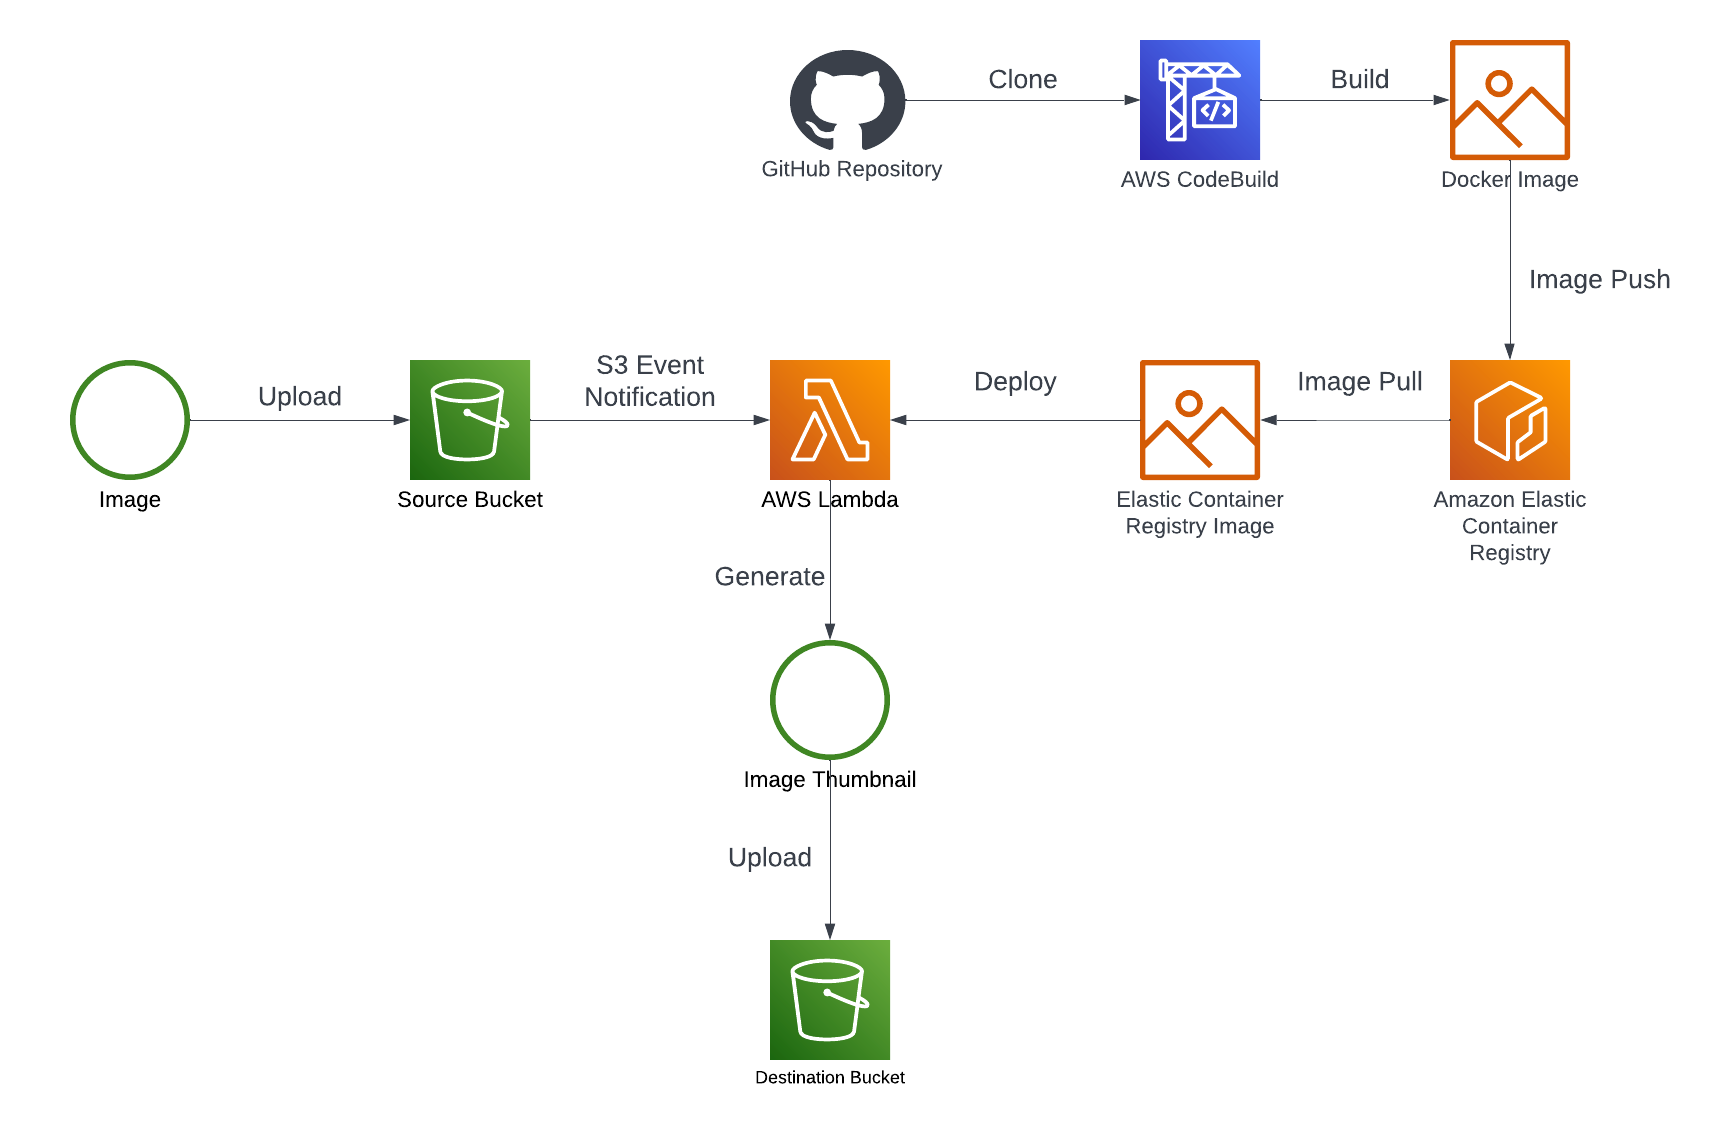
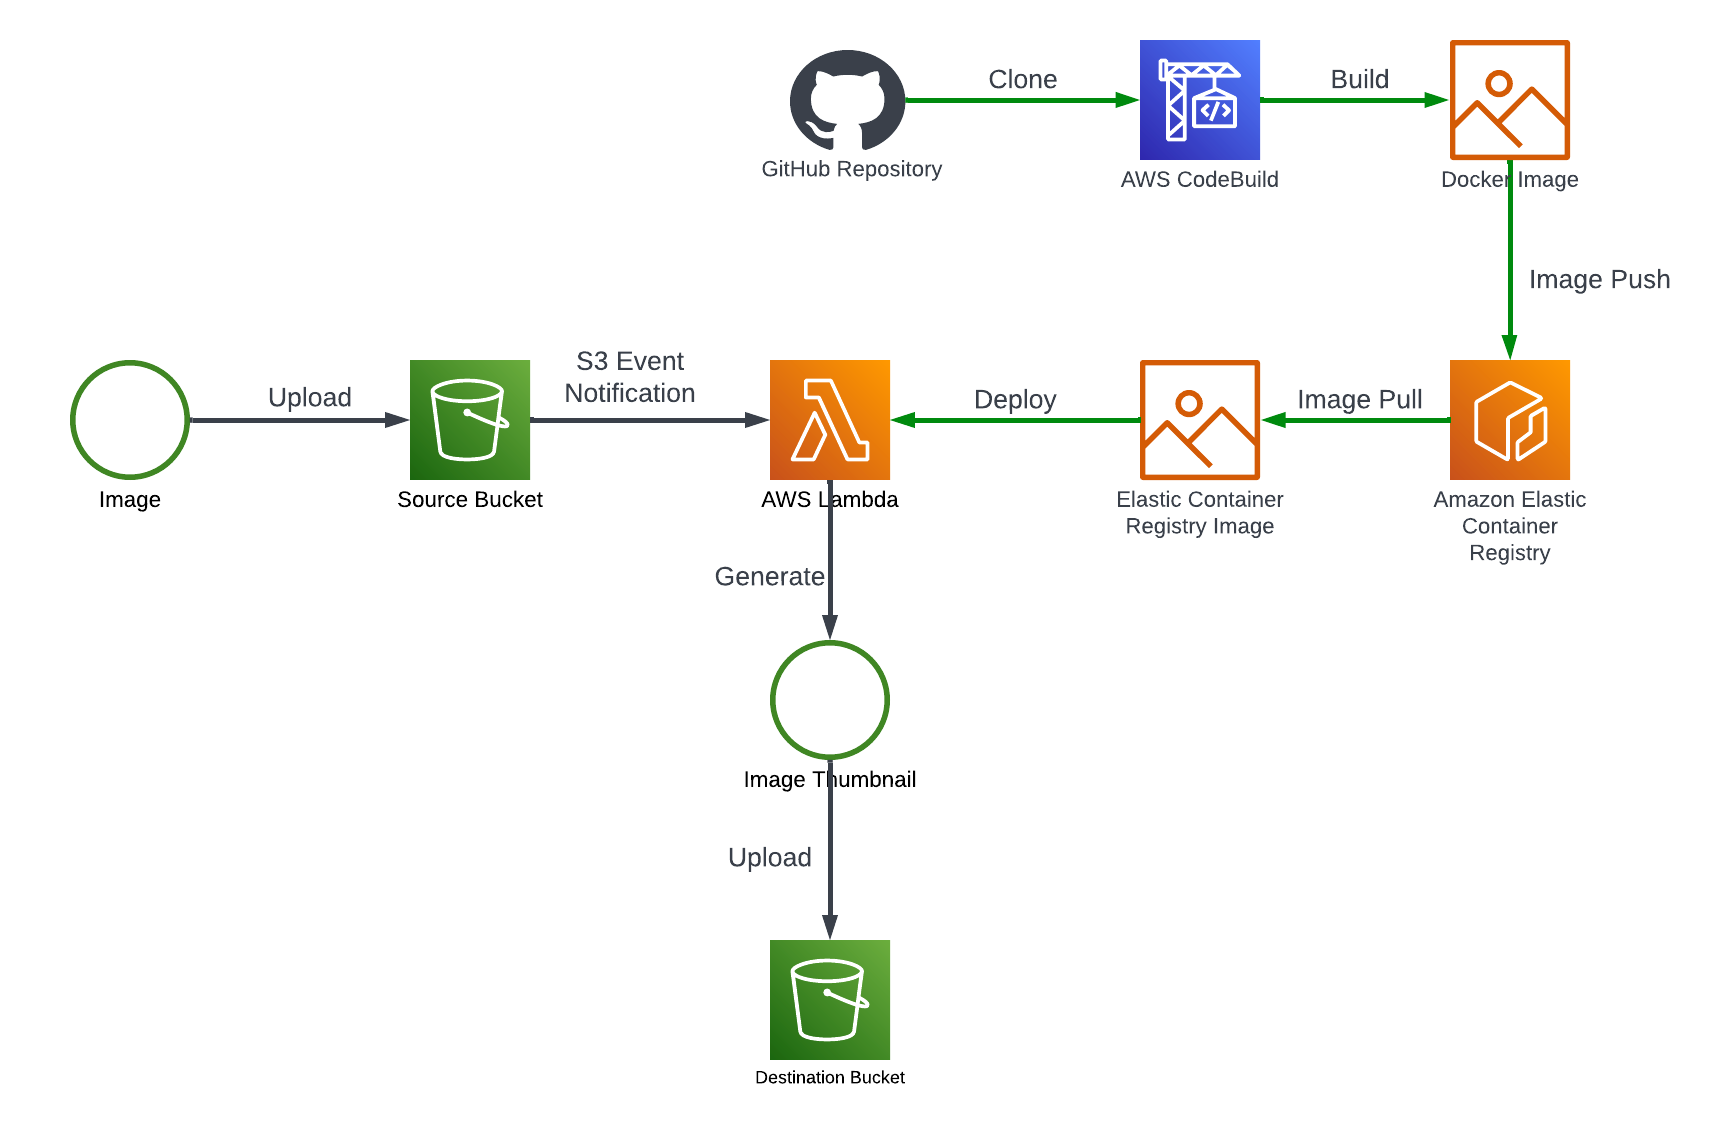
update README.md

diff --git a/s3_thumbnail_creator/README.md b/s3_thumbnail_creator/README.md
@@ -1,34 +1,39 @@
 # 3xImplementation: S3 Thumbnail Creator
 
-This is the first in a series of articles that compares the implementation of multiple basic architectures in 3 different ways: Terraform, AWS CloudFormation, and AWS Python SDK (boto3).
-The source code for this article can be found on GitHub: [https://github.com/Faaizz/cloud_learnings/tree/main/s3_thumbnail_creator](https://github.com/Faaizz/cloud_learnings/tree/main/s3_thumbnail_creator).
+This is the first in a series of episodes that compares three different implementations of basic architectures in AWS. In this episode, implementations of an "S3 Thumbnail Creator" in Terraform, AWS CloudFormation, and AWS Python SDK (boto3) are weighed up.
+
+The source code for this episode can be found on GitHub: [https://github.com/Faaizz/cloud_learnings/tree/main/s3_thumbnail_creator](https://github.com/Faaizz/cloud_learnings/tree/main/s3_thumbnail_creator).
 
 ## Architecture
-The architecture in this episode is a serverless application that automatically generates thumbnails of images uploaded in one S3 bucket (Source bucket) and saves them in another S3 bucket (Destination bucket).
-A basic layout is shown in the image below:
+The S3 Thumbnail Creator is a serverless application that automatically generates thumbnails of images uploaded in one S3 bucket (Source bucket) and saves them in another S3 bucket (Destination bucket).
+A basic layout is shown below. The green arrows show the deployment flow, while the black arrows show the operation flow.
 ![architecture](./docs/architecture.png)
 
 ## Resources
 A few AWS resources are required for this application and its deployment.
+
 First, we have two S3 buckets, the Source bucket and the Destination bucket.
+
 Then, there's the Lambda function that holds the thumbnail generation logic, whose source code lives in a [GitHub repository](https://github.com/Faaizz/s3_thumbnail_creator.git).
+
 An ECR repository is created to hold the container image, and a CodeBuild project is used to build the image and push it to ECR.
+
 For the CloudFormation implementation, an extra Lambda function is needed for the Macro that generates S3 bucket names.
 
 ![resources](./docs/resources.png)
 
 
 ## Some Notes
-For the CloudFormation implementation, the stacks must be provisioned in some way, this is achieved with minimal `go` scripts utilizing the AWS Go SDK.
-
-Also, as the application is not embedded within a CI/CD system, the "build" step needs to be triggered in some way.
-For the Terraform implementation, a `provider` block is used (I know, using providers is bad practice :-X).
-The Python SDK implementation includes this in the `python` scripts that make the API calls, and the CloudFormation implementation incorporates this in its `go` scripts.
+* For the CloudFormation implementation, the stacks must be provisioned in some way, this is achieved with minimal [`go` scripts](./cloudformation/) utilizing the AWS Go SDK.
+* As the application is not embedded within a CI/CD system, the "build" step requires an external trigger.
+For the Terraform implementation, a `provisioner` block is used (I know, using provisioners is (usually) bad practice :-X);
+the Python SDK implementation does this from the `python` scripts that make the API calls; 
+and the CloudFormation implementation incorporates this in its `go` scripts.
 
 ## Implementation
 ### ECR Repository
-The most independent resource of this application's entire stack is the ECR repository.
-It does not require information from any other resource.
+The most independent resource of the entire stack is the ECR repository.
+It does not require information from any other resource for its creation.
 Below is the creation of the ECR repository in all 3 implementations:
 ```h
 # Terraform
@@ -57,9 +62,123 @@ ecr_client.create_repository(
 )
 ```
 
-### CodeBuild
-A CodeBuild project is used to package the Thumbnail Generation lambda function as a container image.
-An IAM service role is set up for CodeBuild with permissions to write to CloudWatch logs and push to ECR.
+### CodeBuild Project and Build
+A CodeBuild project is used to package the thumbnail generation lambda function source code as a container image.To do this, the CodeBuild project requires a service role with permissions to write to CloudWatch logs and push images to ECR. 
+
+**Permissions**
+
+Specifying IAM permissions is basic JSON (or YAML), so realization across all 3 implementation is quite trivial. For the sake of completion, excerpts of the CodeBuild project's service role (and its attached policy) are provided in the following.
+
+For the terraform implementation, the built-in `jsonencode()` function came in handy. The policy and role are created separately, and associated together using the `aws_iam_role_policy_attachment` resource.
+```h
+# Terraform
+resource "aws_iam_policy" "codebuild_service_policy" {
+  name = local.codebuild_policy_name
+  description = "Allow access to CloudWatch Logs and ECR"
+
+  policy = jsonencode({
+    Version = "2012-10-17"
+    Statement = [
+      {
+        Effect = "Allow"
+        Action = [
+          "logs:CreateLogGroup",
+          "logs:CreateLogStream",
+          "logs:PutLogEvents",
+        ]
+        Resource = "arn:aws:logs:*:*:*"
+      },
+      {
+        Effect = "Allow"
+        Action = [
+          "ecr:BatchCheckLayerAvailability",
+          "ecr:CompleteLayerUpload",
+          "ecr:GetAuthorizationToken",
+          "ecr:InitiateLayerUpload",
+          "ecr:PutImage",
+          "ecr:UploadLayerPart",
+        ]
+        Resource = "*"
+      },
+    ]
+  })
+
+  tags = local.uniform_tags
+}
+
+# CodeBuild service role
+resource "aws_iam_role" "codebuild_service_role" {
+  name = local.codebuild_role_name
+  assume_role_policy = jsonencode({
+    Version = "2012-10-17"
+    Statement = [
+      {
+        Effect = "Allow"
+        Action = ["sts:AssumeRole"]
+        Principal = {
+          Service = "codebuild.amazonaws.com"
+        }
+      }
+    ]
+  })
+
+  tags = local.uniform_tags
+}
+
+# CodeBuild: associate policy with service role
+resource "aws_iam_role_policy_attachment" "codebuild_policy_to_role" {
+  role = aws_iam_role.codebuild_service_role.name
+  policy_arn = aws_iam_policy.codebuild_service_policy.arn
+}
+```
+
+For CloudFormation, the policy is embedded directly into the `Policies` field of the role.
+```yaml
+# CloudFormation
+...
+Resources:
+  ThumbnailCreationBuildRole:
+    Type: AWS::IAM::Role
+    Properties:
+      AssumeRolePolicyDocument:
+        Version: '2012-10-17'
+        Statement:
+          - Effect: Allow
+            Action:
+              - 'sts:AssumeRole'
+            Principal:
+              Service:
+                - 'codebuild.amazonaws.com'
+      Policies:
+        - PolicyName: RandomBucketNameLambdaPolicy
+          PolicyDocument:
+            Version: '2012-10-17'
+            Statement:
+              - Effect: Allow
+                Sid: CloudWatchLogsAccess
+                Action:
+                  - 'logs:CreateLogGroup'
+                  - 'logs:CreateLogStream'
+                  - 'logs:PutLogEvents'
+                Resource: 'arn:aws:logs:*:*:*'
+              - Effect: Allow
+                Sid: ECRAccess
+                Action:
+                  - 'ecr:BatchCheckLayerAvailability'
+                  - 'ecr:CompleteLayerUpload'
+                  - 'ecr:GetAuthorizationToken'
+                  - 'ecr:InitiateLayerUpload'
+                  - 'ecr:PutImage'
+                  - 'ecr:UploadLayerPart'
+                Resource: '*'
+...
+```
+
+The python implementation is a little bit more verbose because of reuseable functions, so it'll be skipped.
+
+
+**Project**
+
 The CodeBuild project's `buildspec.yaml` is included with the Thumbnail Generation lambda source code and is provided below.
 ```yaml
 version: 0.2
@@ -84,30 +203,92 @@ phases:
 The build steps are quite simple, and all the required data is provided via environment variables.
 The pre-build step logs into the ECR repository.
 The actual build step builds the docker image and tags it accordingly.
-In the post-build stage, the image is pushed to the ECR repository.
+And in the post-build stage, the image is pushed to the ECR repository.
 
-Across the three implementations, this CodeBuild project was fairly easy to set up.
+Across the three implementations, the CodeBuild project was fairly easy to set up.
 
-Since no artifact is produced---the docker image is not considered as an artifact by CodeBuild, it is pushed to ECR as a part of the build---the major focus is on properly setting up the environment.
-A `LINUX_CONTAINER` build environment type with a standard CodeBuild image (`aws/codebuild/standard:4.0`) is used. `privilege_mode` is enabled (to use docker in docker---`dind`) and the required authentication & tagging data are passed to the build environment via environment variables.
+Since no artifact is produced---the docker image is not considered an artifact by CodeBuild, it is pushed to ECR as a part of the build---the major focus is on properly setting up the environment.
+A `LINUX_CONTAINER` build environment type with a standard CodeBuild image (`aws/codebuild/standard:4.0`) is used. `privilege_mode` is enabled (to use docker in docker--`dind`) and the required authentication & tagging data are passed to the build environment via environment variables.
 The source is specified as a GitHub repository located at [https://github.com/Faaizz/cloud_learnings/tree/main/s3_thumbnail_creator](https://github.com/Faaizz/cloud_learnings/tree/main/s3_thumbnail_creator).
 
-*At the time of this writing, according to the [CloudFormation documentation]() if the source code is a GitHub repository, "You must connect your AWS account to your GitHub account". This I've found to be inaccurate for a public GitHub repository (as used in this project).*
+*At the time of this writing, according to the [CloudFormation documentation]() if the source code is a GitHub repository, "You must connect your AWS account to your GitHub account". This I've found to be inaccurate for a public GitHub repository (as used in this project). As the CodeBuild project could clone the public GitHub repository without having to connect a GitHub account.*
+
+
+**Triggering the Build**
+
+Once the CodeBuild project is created, a build needs to be triggered, such that the thumbnail generation lambda image is built and pushed to ECR.
+
+In terraform, this is done using a `null_resource` with a provisioner block to trigger a bash script with the CodeBuild project name as an argument.
+```h
+# Terraform
+resource "null_resource" "trigger_build" {
+  depends_on = [
+    aws_codebuild_project.thumbnail_creation_image_build
+  ]
+
+  provisioner "local-exec" {
+    environment = {
+      AWS_DEFAULT_REGION = var.aws_region
+      AWS_ACCESS_KEY_ID = var.aws_access_key_id
+      AWS_SECRET_ACCESS_KEY = var.aws_secret_access_key
+    }
+
+    working_dir = join("/", [abspath(path.root), "scripts"])
+    interpreter = [
+      "/bin/bash", "-c"
+    ]
+
+    command = <<-EOF
+    ./build.sh ${local.codebuild_project_name}
+    EOF
+  }
+}
+```
+
+The bash scripts uses AWS CLI to trigger a build on the CodeBuild project and waits (for a maximum of 5 minutes) for the build to succeed.
+```bash
+#!/bin/bash
+# ./build.sh
+
+BUILD_ID=$(aws codebuild start-build --project-name $1 | jq -r '.build.id')
+echo $BUILD_ID
+
+CTR=0
+
+for (( ; ; ))
+do
+	sleep 15
+	BUILD_STATUS=$(aws codebuild batch-get-builds --ids $BUILD_ID | jq -r '.builds[0].buildStatus')
+	if [[ "$BUILD_STATUS" = "SUCCEEDED"  ]]
+	then
+		break
+	fi
+	if [[ "$CTR" -gt "20" ]]
+	then
+		exit 1
+	fi
+	CTR=$(($CTR+1))
+	echo $CTR
+done
+
+```
+
+For the CloudFormation and Python SDK implementations, similar build trigger constructs are achieved with a [`go` script](s3_thumbnail_creator/cloudformation/cb/cb.go) and a [`python` script](https://github.com/Faaizz/cloud_learnings/blob/b97336b48436c20d9944125d5d2e34976343cef8/s3_thumbnail_creator/python_sdk/core/codebuild_actions.py#L64-L84) respectively. They trigger the project build and wait (for a maximum of 5 minutes) for the build to succeed.
 
 
 ### Thumbnail Generation Lambda
 
 *TL;DR*
-- *CloudFormation requires S3 Bucket Notifications to be configured when declaring a bucket. This can result in cyclic dependencies when other resources also need information about the bucket in their declaration.*
+- *CloudFormation requires S3 Bucket Notifications to be configured when declaring a bucket. This can result in cyclic dependencies when notification destinations also need information about the bucket in their declaration.*
 - *Python SDK requires that a lambda function be active before permissions can be configured. This can usually be implemented using a waiter.*
 
 Now that the container image for the Thumbnail Generation lambda has been built and pushed to ECR, the lambda function that uses it can be defined.
 The process of creating the lambda function in all 3 implementations is pretty straightforward.
-The only caveat is that, in specifying the trust permission to allow the Source S3 bucket invoke the lambda function, the Source buckets ARN has to be manually constructed (as `aws:arn:s3:::<source_bucket_name>`) to avoid cyclic dependencies. This is because the lambda function's ARN is required to configure S3 bucket notifications on the Source S3 bucket, and in CloudFormation, S3 bucket notifications must be specified at bucket declaration time.
+The only caveat is, while specifying the trust permission to allow the Source S3 bucket invoke the lambda function, the Source buckets ARN has to be manually constructed (as `aws:arn:s3:::<source_bucket_name>`) to avoid cyclic dependencies. This is because the lambda function's ARN is required to configure bucket notifications on the Source bucket, and in CloudFormation, bucket notifications must be specified at bucket declaration time.
 
-With Terraform, the `aws_lambda_function` and `aws_lambda_permission` resource blocks create the lambda function and updates its resource policy to allow invocation from the Source S3 bucket. An execution role is setup with the `aws_iam_role` resource block, with a policy attached to grant CloudWatch logs permissions, and allow the lambda function to save the created thumbnails to the Destination S3 bucket.
+With Terraform, the `aws_lambda_function` and `aws_lambda_permission` resource blocks create the lambda function and updates its resource policy to allow invocation from the Source bucket. An execution role is setup with the `aws_iam_role` resource block, with a policy attached to grant CloudWatch logs permissions, and allow the lambda function to save the created thumbnails to the Destination bucket.
 
-In the Python SDK implementation, after making the API call to create the lambda function, a waiter needs to be configured to pause the execution until the newly created function is active. This helps to prevent any errors when trying to grant invocation permissions to the Source bucket (since permissions can only be added when the function becomes active).
+In the Python SDK implementation, after making the API call to create the lambda function, a waiter is configured to pause the execution until the newly created function is active. This helps to prevent errors when trying to grant invocation permissions to the Source bucket (since permissions can only be added when the function becomes active).
 ```python
 lambda_client.boto3.client('lambda')
 waiter = lambda_client.get_waiter('function_active')
@@ -127,8 +308,8 @@ waiter.wait(
 - *CloudFormation does not have mechanisms to generate random numbers out of the box.*
 - *CloudFormation macros must be created before they can be used.*
 
-Python and Terraform provide mechanisms to generate pseudo-random numbers (e.g., `rand.randint` and the `random` provider's `random_integer` respectively). CloudFormation does not have such mechanisms out of the box.
-To complement this, a lambda function backed Macro is utilized to generate S3 bucket names for the CloudFormation implementation as shown below.
+Python and terraform provide mechanisms to generate pseudo-random numbers (e.g., `rand.randint()` and the `random` provider's `random_integer` respectively). These are used to generate pseudo-random bucket names for the Source and Destination S3 buckets. CloudFormation does not have such mechanisms out of the box.
+To complement this, a lambda function-backed CloudFormation macro is utilized to generate S3 bucket names for the CloudFormation implementation as shown below.
 ```yaml
 ...
 Resources:
@@ -168,9 +349,28 @@ The function logic is provided to the CloudFormation template in-line, hence, no
 It is worthy to note that CloudFormation macros must exist before they can be used. I.e., a stack must be created from the template that declares a macro before the macro can be used in other templates. You CANNOT declare and use a macro in the same template.
 
 
-### S3 Buckets
-Creation of S3 buckets and bucket notifications is quite mundane across all three implementations.
-The only tricky part is CloudFormation's requirement that bucket notification configuration be configured while declaring the S3 bucket (which has been discussed in the **Thumbnail Generation Lambda** section).
+### Roundup
+Each of the three implementations is set up as an automated deployment and can be run via a single command. All commands below assume the [source repository](https://github.com/Faaizz/cloud_learnings.git) has been cloned, and that the command is being run from the root directory.
+
+Terraform:
+```sh
+cd s3_thumbnail_creator/terraform
+terraform apply --auto-approve
+```
+
+CloudFormation:
+```sh
+cd s3_thumbnail_creator/cloudformation
+go run .
+```
+
+Python:
+```sh
+cd s3_thumbnail_creator/python_sdk
+python3 ./run.py
+```
+
+*All executions above assume that AWS credentials are properly set up via environment variables: `AWS_ACCESS_KEY_ID`, `AWS_SECRET_ACCESS_KEY`, & `AWS_DEFAULT_REGION`.*
 
 ## Cleanup
 
